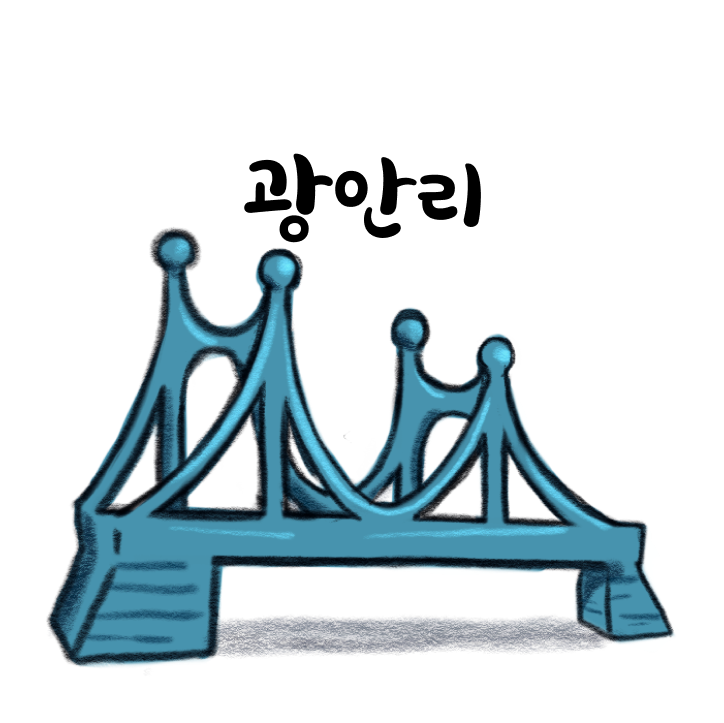
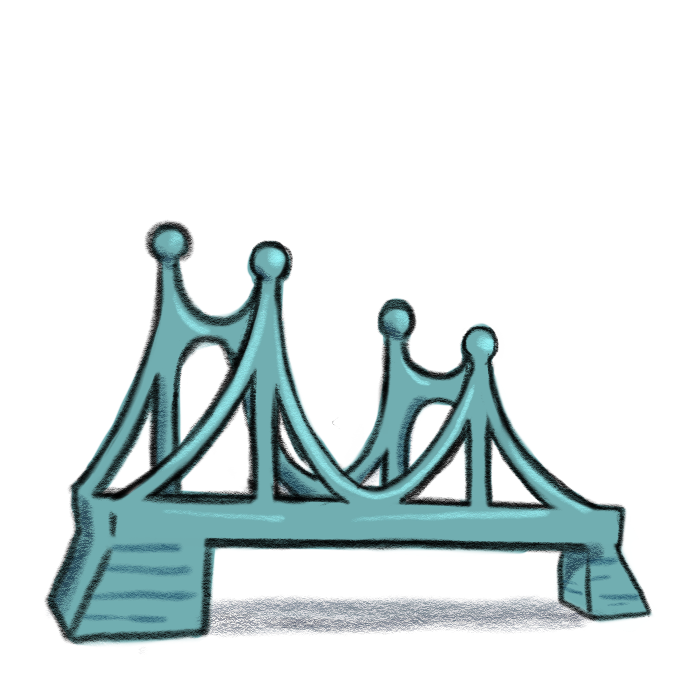
main button image and css changed

Changed region(s): [[0.06, 0.21, 0.93, 0.93], [0.69, 0.87, 0.75, 0.9]]

diff --git a/pages/index.tsx b/pages/index.tsx
@@ -57,47 +57,33 @@ const WrapButtonsBig = styled.div`
   }
 `;
 
-const WrapButtonsSmall = styled.div`
-  width: 56%;
-  margin: 0 auto;
-  display: flex;
-  justify-content: space-between;
-  flex-wrap: wrap;
-
-  div {
-    width: 24%;
-    cursor: pointer;
-
-    :hover {
-      transform: translateY(-5%);
-    }
-  }
-
-  @media (min-width: 1281px) {
-    width: 68%;
-  }
-
-  @media (max-width: ${props => props.theme.deviceSizes.pc}) {
-    width: 80%;
-  }
-
-  @media (max-width: ${props => props.theme.deviceSizes.tablet}) {
-    width: 80%;
-    div {
-      width: 44%;
-      margin-bottom: 1rem;
-    }
-  }
-  @media (max-width: ${props => props.theme.deviceSizes.mobile13P}) {
-    width: 100%;
-  }
-`;
-
 const Div = styled.div`
   width: auto;
   height: auto;
   display: flex;
   justify-content: center;
+  position: relative;
+  p {
+    font-size: 1.1em;
+    font-family: 'Cafe24Ssurround';
+    background-color: rgba(255, 255, 255, 0.6);
+    padding: 0.6em;
+    border-radius: 10px;
+    position: absolute;
+    bottom: 0;
+    left: 50%;
+    transform: translateX(-50%);
+    background: rgba(255, 255, 255, 0.25);
+    box-shadow: 0 8px 32px 0 rgba(31, 38, 135, 0.37);
+    backdrop-filter: blur(8px);
+    -webkit-backdrop-filter: blur(8px);
+    border-radius: 10px;
+    border: 1px solid rgba(255, 255, 255, 0.18);
+    @media (max-width: ${props => props.theme.deviceSizes.tablet}) {
+      width: 62%;
+      text-align: center;
+    }
+  }
 `;
 
 const AddToHome = styled.div`
@@ -153,6 +139,7 @@ const Home: NextPage = () => {
                 height={200}
                 onClick={() => router.push(ROUTES.HEAWOONDAE)}
               />
+              <p>해운대</p>
             </Div>
             <Div>
               <Image
@@ -162,6 +149,7 @@ const Home: NextPage = () => {
                 height={200}
                 onClick={() => router.push(ROUTES.GUANGANLEE)}
               />
+              <p>광안리</p>
             </Div>
             <Div>
               <Image
@@ -171,6 +159,7 @@ const Home: NextPage = () => {
                 height={200}
                 onClick={() => router.push(ROUTES.DADAEPO)}
               />
+              <p>다대포</p>
             </Div>
             <Div>
               <Image
@@ -180,35 +169,39 @@ const Home: NextPage = () => {
                 height={200}
                 onClick={() => router.push(ROUTES.SONGJUNG)}
               />
+              <p>송정</p>
             </Div>
           </WrapButtonsBig>
-          <WrapButtonsSmall>
+          <WrapButtonsBig>
             <Div>
               <Image
-                src="/asset/img/bgimg_tube_clear.png"
+                src="/asset/img/button_imlang.png"
                 alt="go to Imlang"
                 width={200}
                 height={200}
                 onClick={() => router.push(ROUTES.IMLANG)}
               />
+              <p>임랑</p>
             </Div>
             <Div>
               <Image
-                src="/asset/img/bgimg_tube_clear.png"
+                src="/asset/img/button_ilguang.png"
                 alt="go to Ilguang"
                 width={200}
                 height={200}
                 onClick={() => router.push(ROUTES.ILGUANG)}
               />
+              <p>일광</p>
             </Div>
             <Div>
               <Image
-                src="/asset/img/bgimg_tube_clear.png"
+                src="/asset/img/button_songdo.png"
                 alt="go to Songdo"
                 width={200}
                 height={200}
                 onClick={() => router.push(ROUTES.SONGDO)}
               />
+              <p>송도</p>
             </Div>
             <Div>
               {!isInstalled && (
@@ -217,7 +210,7 @@ const Home: NextPage = () => {
                 </AddToHome>
               )}
             </Div>
-          </WrapButtonsSmall>
+          </WrapButtonsBig>
         </WrapImg>
       </Main>
     </ThemeProvider>

diff --git a/styles/GlobalStyle.ts b/styles/GlobalStyle.ts
@@ -1,6 +1,12 @@
 import { css } from '@emotion/react';
 
 export const GlobalStyle = css`
+  @font-face {
+    font-family: 'Cafe24Ssurround';
+    src: url('https://cdn.jsdelivr.net/gh/projectnoonnu/noonfonts_2105_2@1.0/Cafe24Ssurround.woff') format('woff');
+    font-weight: normal;
+    font-style: normal;
+  }
   * {
     box-sizing: border-box;
     font-family: 'Noto Sans KR', sans-serif;
